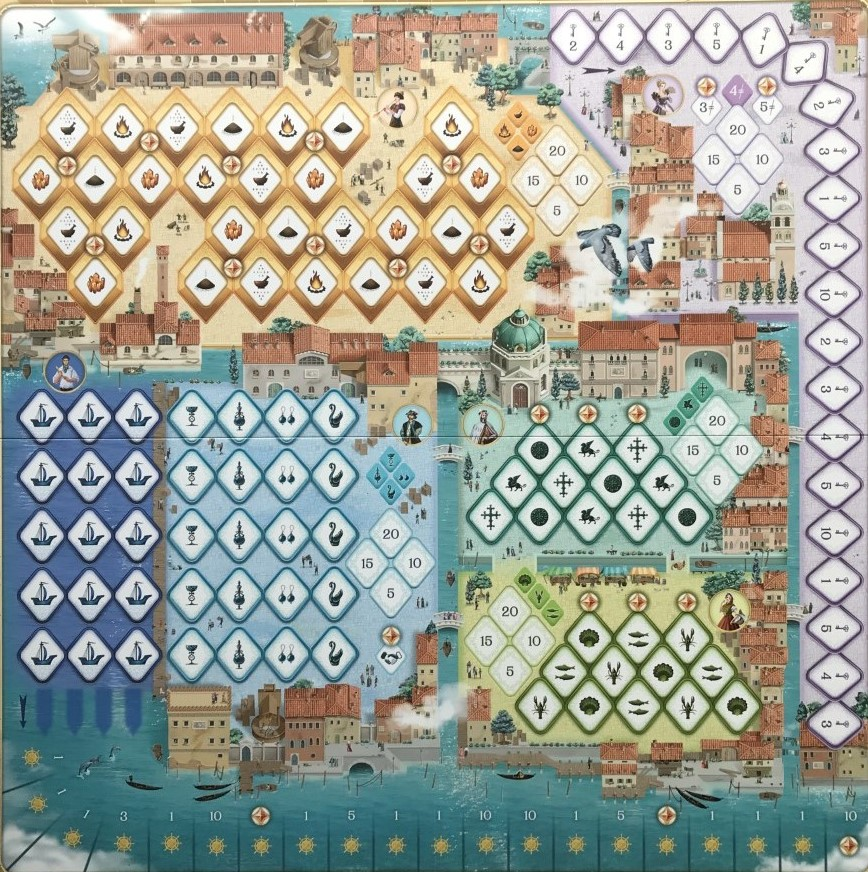
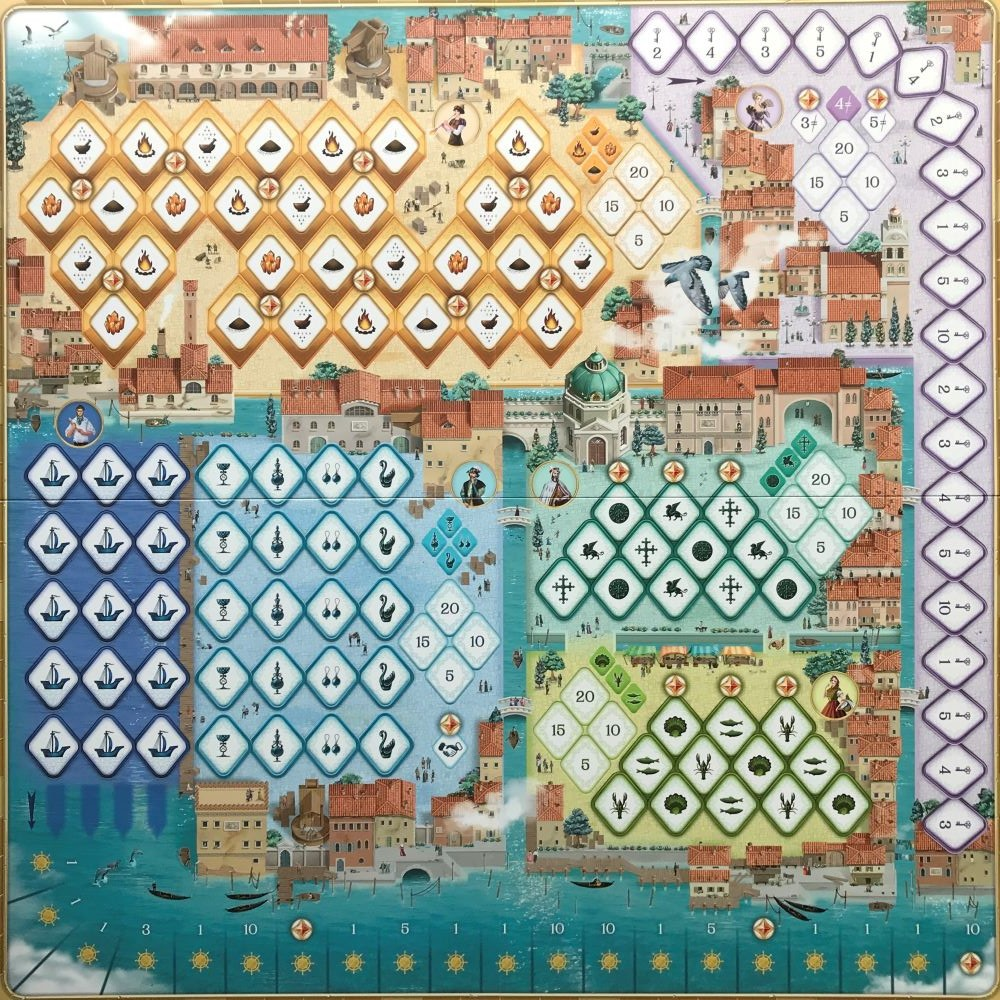
Board

diff --git a/export/millefiori.css b/export/millefiori.css
@@ -68,8 +68,8 @@
 */
 
 #board {
-    width: 868px;
-    height: 872px;
+    width: 1000px;
+    height: 1000px;
     background-image: url('img/board.jpg');
     position: relative;
  }
@@ -90,7 +90,7 @@
 .field {
     width: 43px;
     height: 50px;
-    opacity: 0.6;
+    opacity: 0.7;
     position: absolute;
     background-color: rgb(90, 90, 90);
     clip-path: polygon(50% 0%, 0% 50%, 50% 100%, 100% 50%);
@@ -99,7 +99,7 @@
     width: 30px;
     height: 40px;
     position: absolute;
-    opacity: 0.4;
+    opacity: 0.7;
 }
 .token0 {
     clip-path: polygon(0% 30%, 100% 100%, 0% 100%);

diff --git a/export/modules/Ocean.php b/export/modules/Ocean.php
@@ -19,7 +19,7 @@ class Ocean {
     const BOTTOM_TOP = 52-4;
     const RIGHT_EDGE = 52;
     const NUMBER_FIELDS = 21;
-    const LEFT_MARGIN = 1.3;
+    const LEFT_MARGIN = 0.7;
     const QUERY_PLAYER = "SELECT player_id id, player_no player_number, player_score score, player_color color, ocean_position ocean_position FROM player";
     const QUERY_WHERE = " WHERE player_id=";
     const UPDATE_OCEAN_POSITION = "UPDATE player SET ocean_position=";

diff --git a/export/modules/PageBuilder.php b/export/modules/PageBuilder.php
@@ -13,8 +13,8 @@ class PageBuilder {
     const FIELD_BLOCK = 'field';
     const KEY_CATEGORY = 'CATEGORY';
     const KEY_FIELD_ID = 'ID';
-    const WIDTH_PIXELS = 868;
-    const HEIGHT_PIXELS = 872;
+    const WIDTH_PIXELS = 1000;
+    const HEIGHT_PIXELS = 1000;
     const WIDTH_CM = 52;
     const HEIGHT_CM = 52;
     protected array $fields = array();
